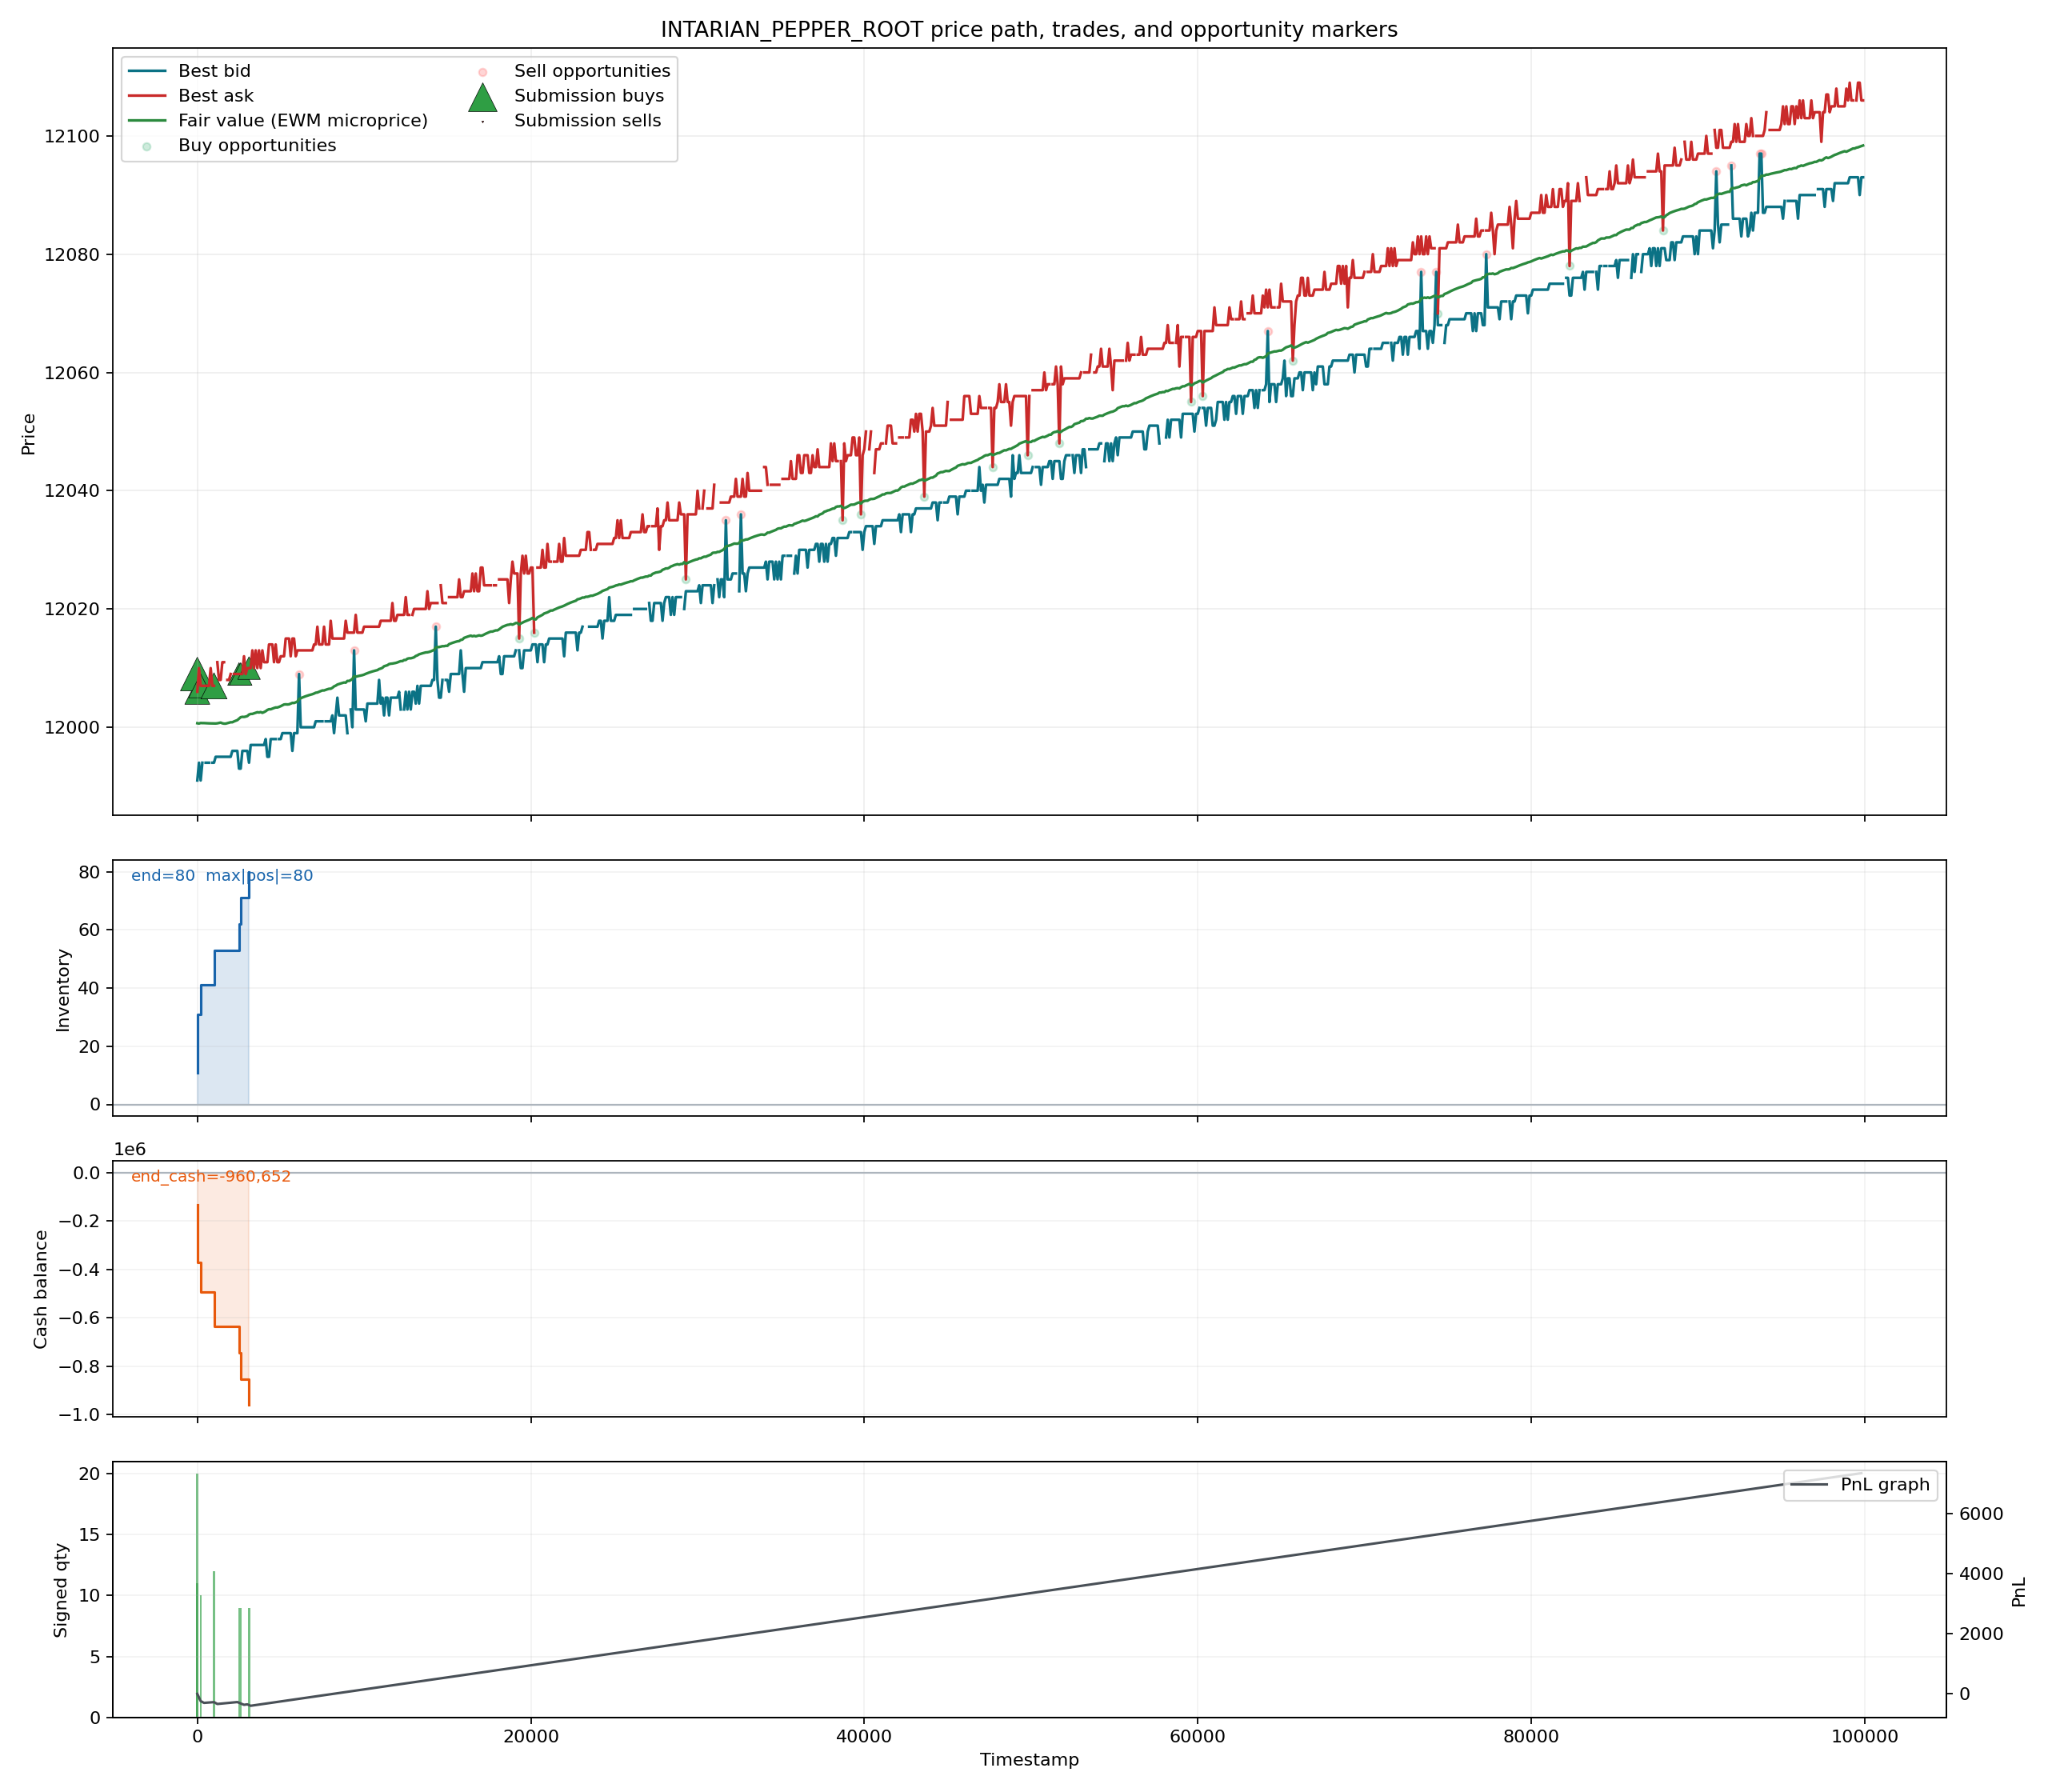
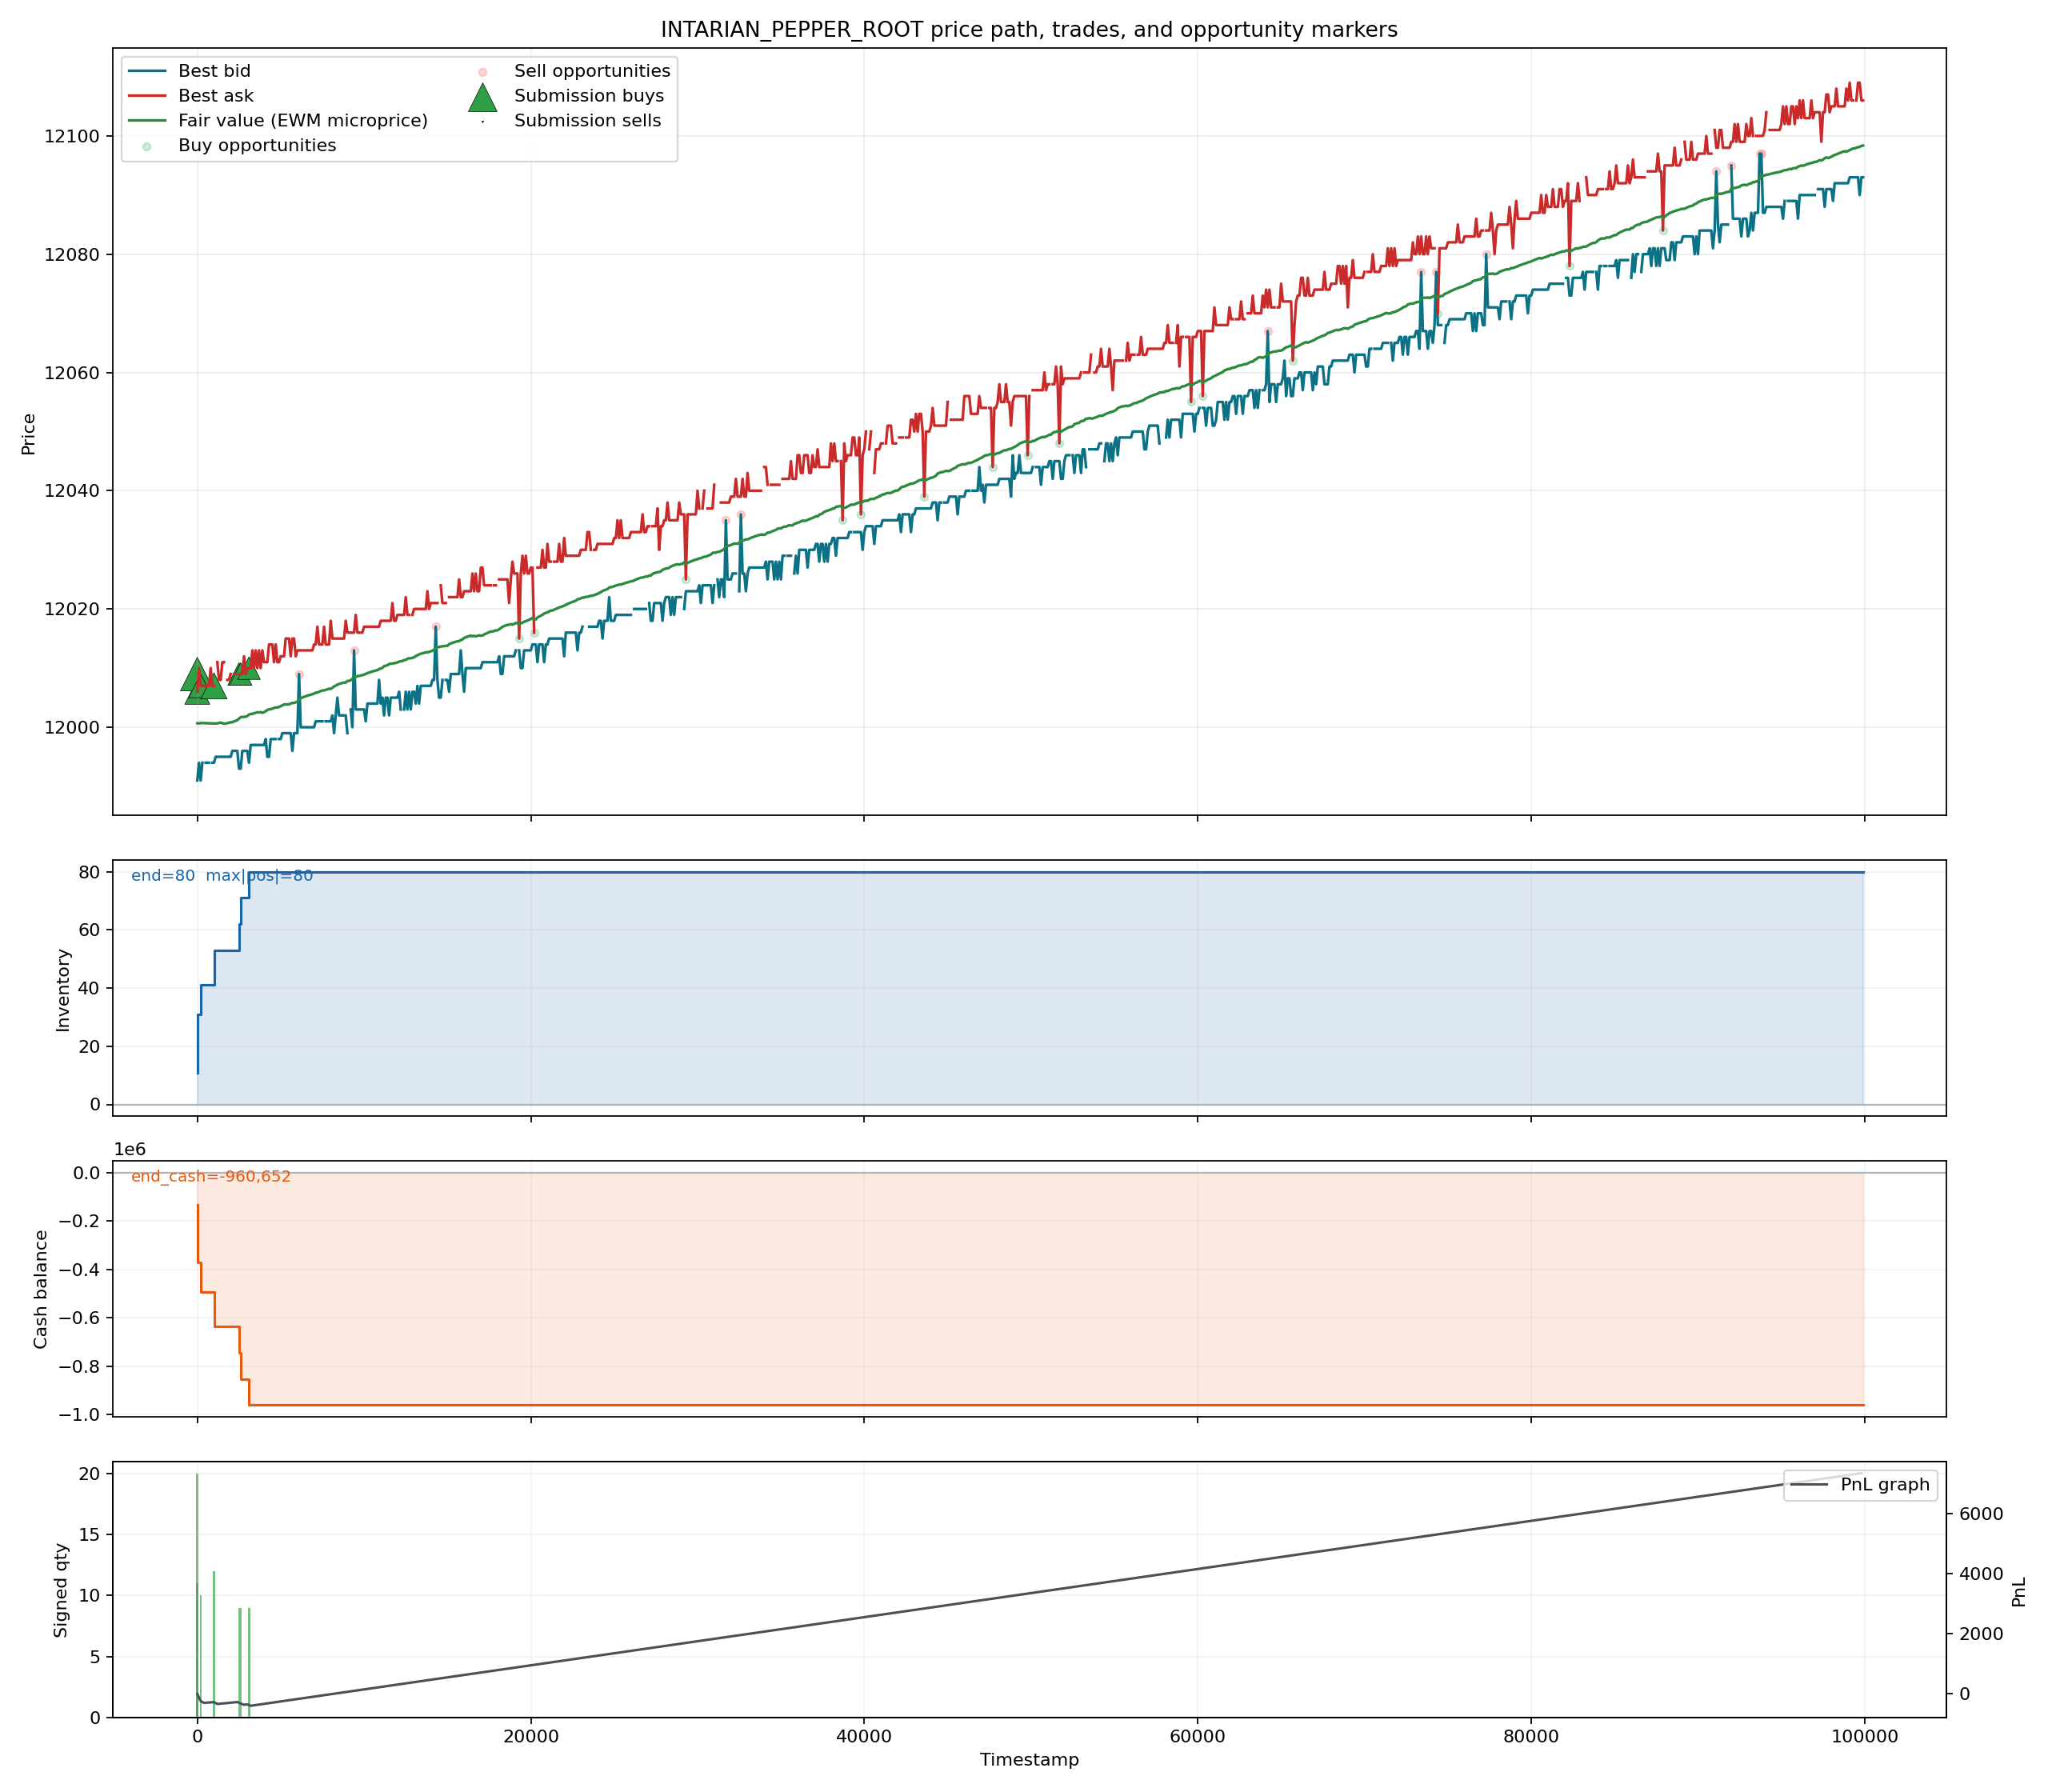
fix

Changed region(s): [[0.0938, 0.6562, 0.9375, 0.8125], [0.0938, 0.4688, 0.9375, 0.625]]

diff --git a/prosperity/tooling/logs.py b/prosperity/tooling/logs.py
@@ -713,8 +713,15 @@ def plot_symbol_review(log: OfficialLog, symbol: str, output_dir: str | Path, ed
         cash_delta = -sorted_trades["price"] * sorted_trades["signed_quantity"]
         cash_running = cash_delta.cumsum()
 
-        pos_ax.plot(sorted_trades["timestamp"], inventory, color="#1864ab", linewidth=1.4, drawstyle="steps-post")
-        pos_ax.fill_between(sorted_trades["timestamp"], 0, inventory, color="#1864ab", alpha=0.15, step="post")
+        # Extend steps to the end of the price panel so flat-position regions
+        # after the last trade stay visible.
+        end_ts = float(symbol_activities["timestamp"].max())
+        inv_ts = pd.concat([sorted_trades["timestamp"], pd.Series([end_ts])], ignore_index=True)
+        inv_vals = pd.concat([inventory, pd.Series([inventory.iloc[-1]])], ignore_index=True)
+        cash_vals = pd.concat([cash_running, pd.Series([cash_running.iloc[-1]])], ignore_index=True)
+
+        pos_ax.plot(inv_ts, inv_vals, color="#1864ab", linewidth=1.4, drawstyle="steps-post")
+        pos_ax.fill_between(inv_ts, 0, inv_vals, color="#1864ab", alpha=0.15, step="post")
         pos_ax.axhline(0, color="#adb5bd", linewidth=1)
         max_abs_pos = float(inventory.abs().max() or 1.0)
         pos_ax.text(
@@ -723,8 +730,8 @@ def plot_symbol_review(log: OfficialLog, symbol: str, output_dir: str | Path, ed
             transform=pos_ax.transAxes, fontsize=9, color="#1864ab",
         )
 
-        cash_ax.plot(sorted_trades["timestamp"], cash_running, color="#e8590c", linewidth=1.4, drawstyle="steps-post")
-        cash_ax.fill_between(sorted_trades["timestamp"], 0, cash_running, color="#e8590c", alpha=0.12, step="post")
+        cash_ax.plot(inv_ts, cash_vals, color="#e8590c", linewidth=1.4, drawstyle="steps-post")
+        cash_ax.fill_between(inv_ts, 0, cash_vals, color="#e8590c", alpha=0.12, step="post")
         cash_ax.axhline(0, color="#adb5bd", linewidth=1)
         cash_ax.text(
             0.01, 0.92,

diff --git a/prosperity/tooling/dashboard.py b/prosperity/tooling/dashboard.py
@@ -278,7 +278,15 @@ def _position_series(fills: pd.DataFrame | list[dict], symbol: str | None = None
                 else int(day_df["timestamp"].iloc[0])
             )
             reset_row = pd.DataFrame([{"timestamp": day_start_ts, "position": 0}])
-            chunks.append(pd.concat([reset_row, day_df[["timestamp", "position"]]], ignore_index=True))
+            # Hold final position flat until end-of-day so the line does not
+            # visually disappear after the last fill.
+            day_end_ts = day_start_ts + 999_900
+            final_pos = int(day_df["position"].iloc[-1])
+            tail_row = pd.DataFrame([{"timestamp": day_end_ts, "position": final_pos}])
+            chunks.append(pd.concat(
+                [reset_row, day_df[["timestamp", "position"]], tail_row],
+                ignore_index=True,
+            ))
 
         return pd.concat(chunks, ignore_index=True).sort_values("timestamp", kind="stable")
 